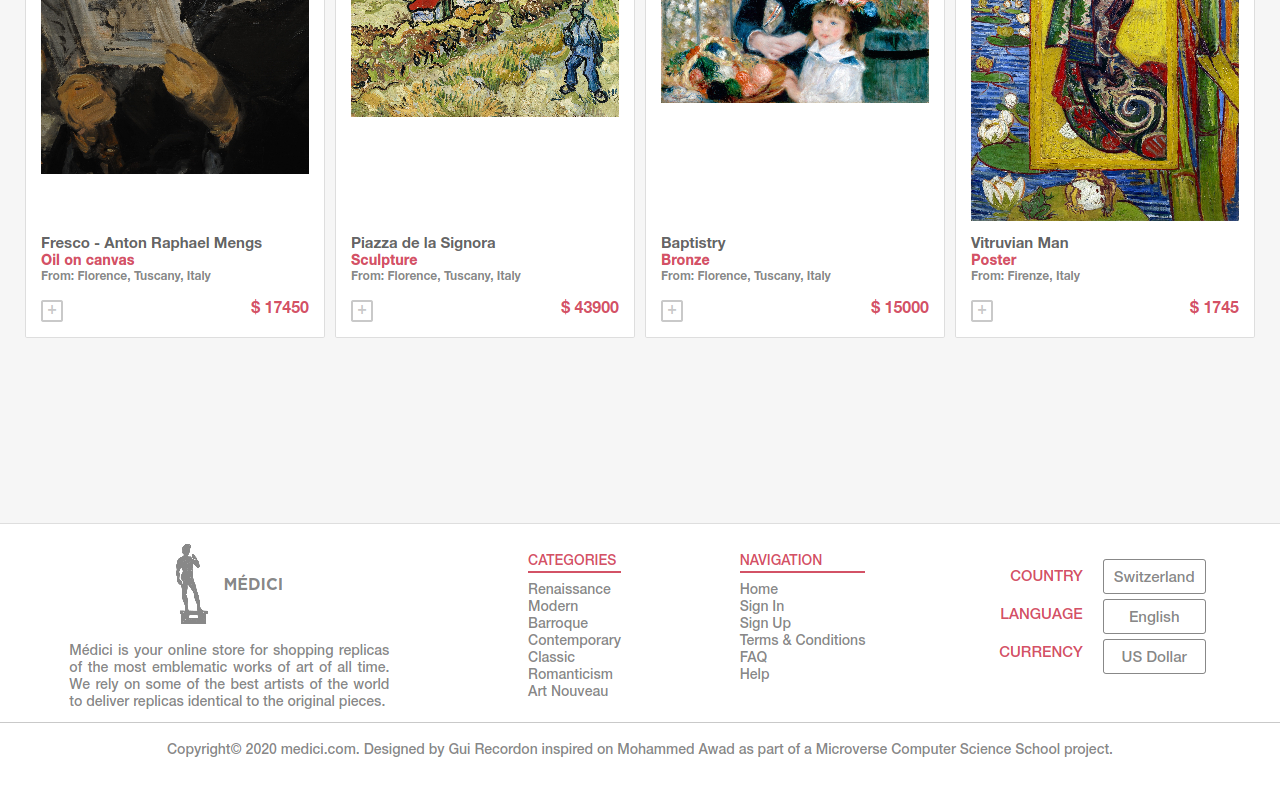
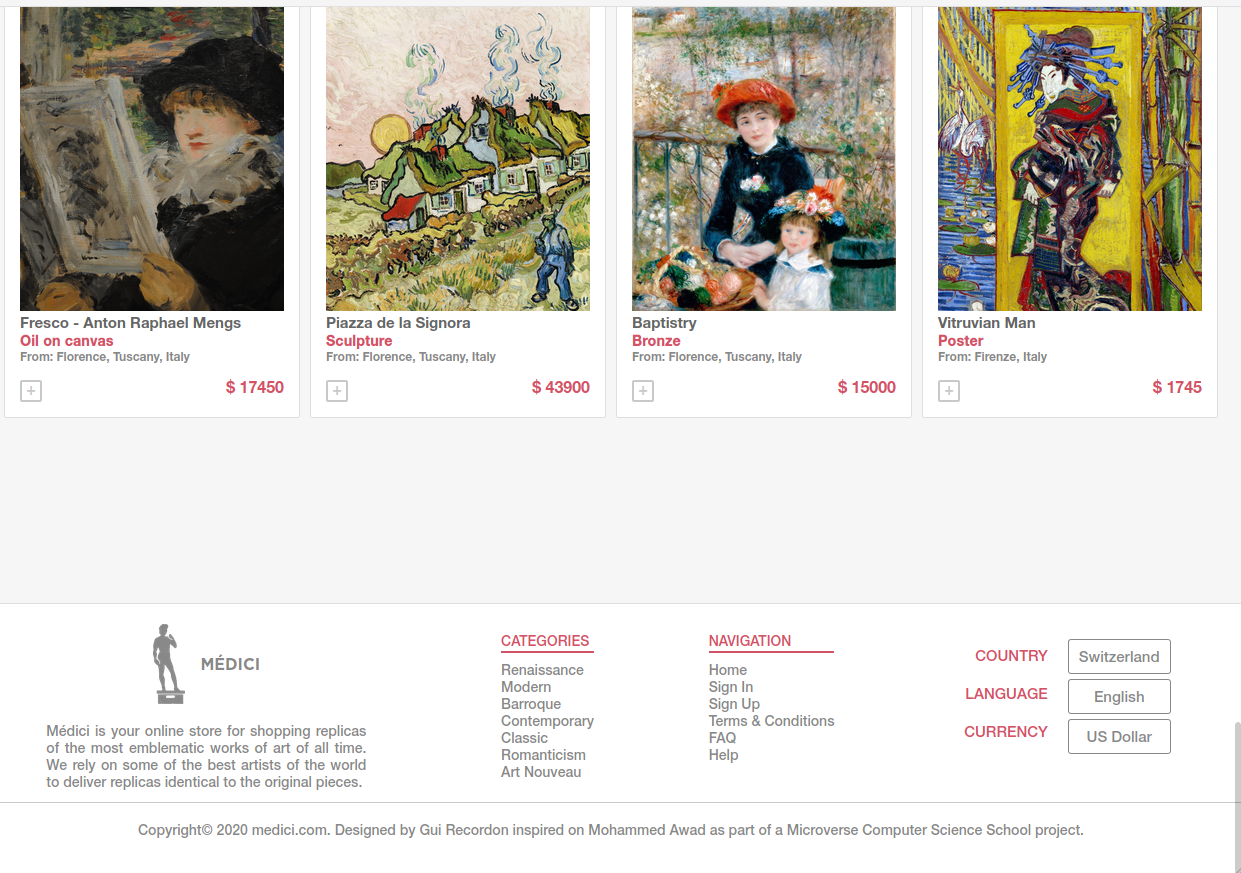
Replace bottom image README

diff --git a/README.md b/README.md
@@ -14,9 +14,7 @@ Keep scrolling for screenshots of the page and a live demo.
 
 <img src="img/screenshot-main-desktop-center.png" alt="desktop center screenshot" width="720">
 
-![screenshot main desktop center](img/screenshot-main-desktop-center.png)
-
-![screenshot main desktop bottom](img/screenshot-main-desktop-bottom.png)
+<img src="img/screenshot-main-desktop-bottom.png" alt="screenshot main desktop bottom" width="720")
 
 ![screenshot main mobile top](img/screenshot-main-mobile-top.png)
 
